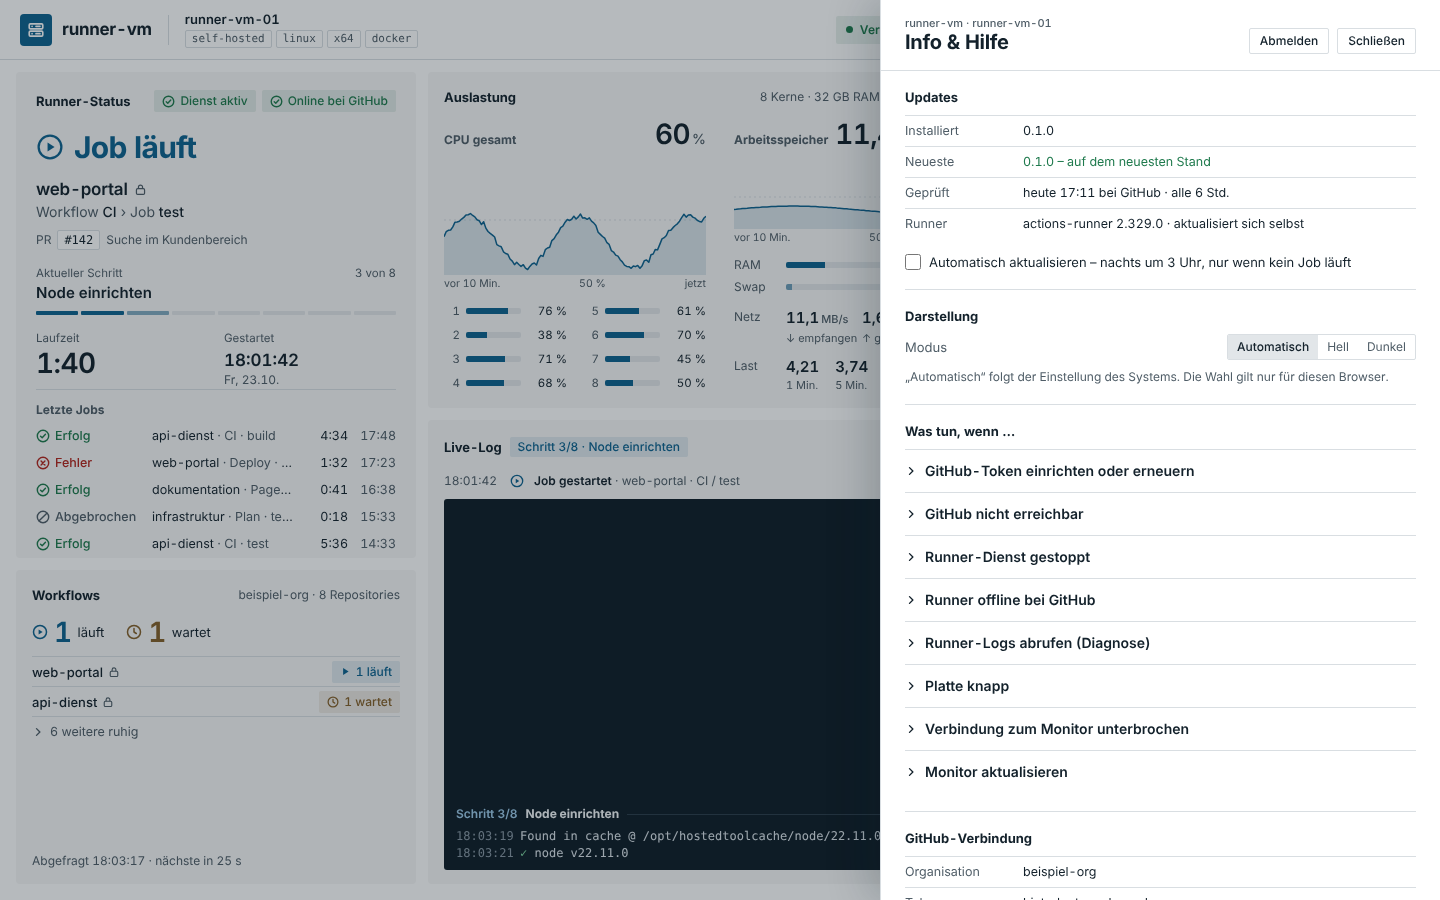
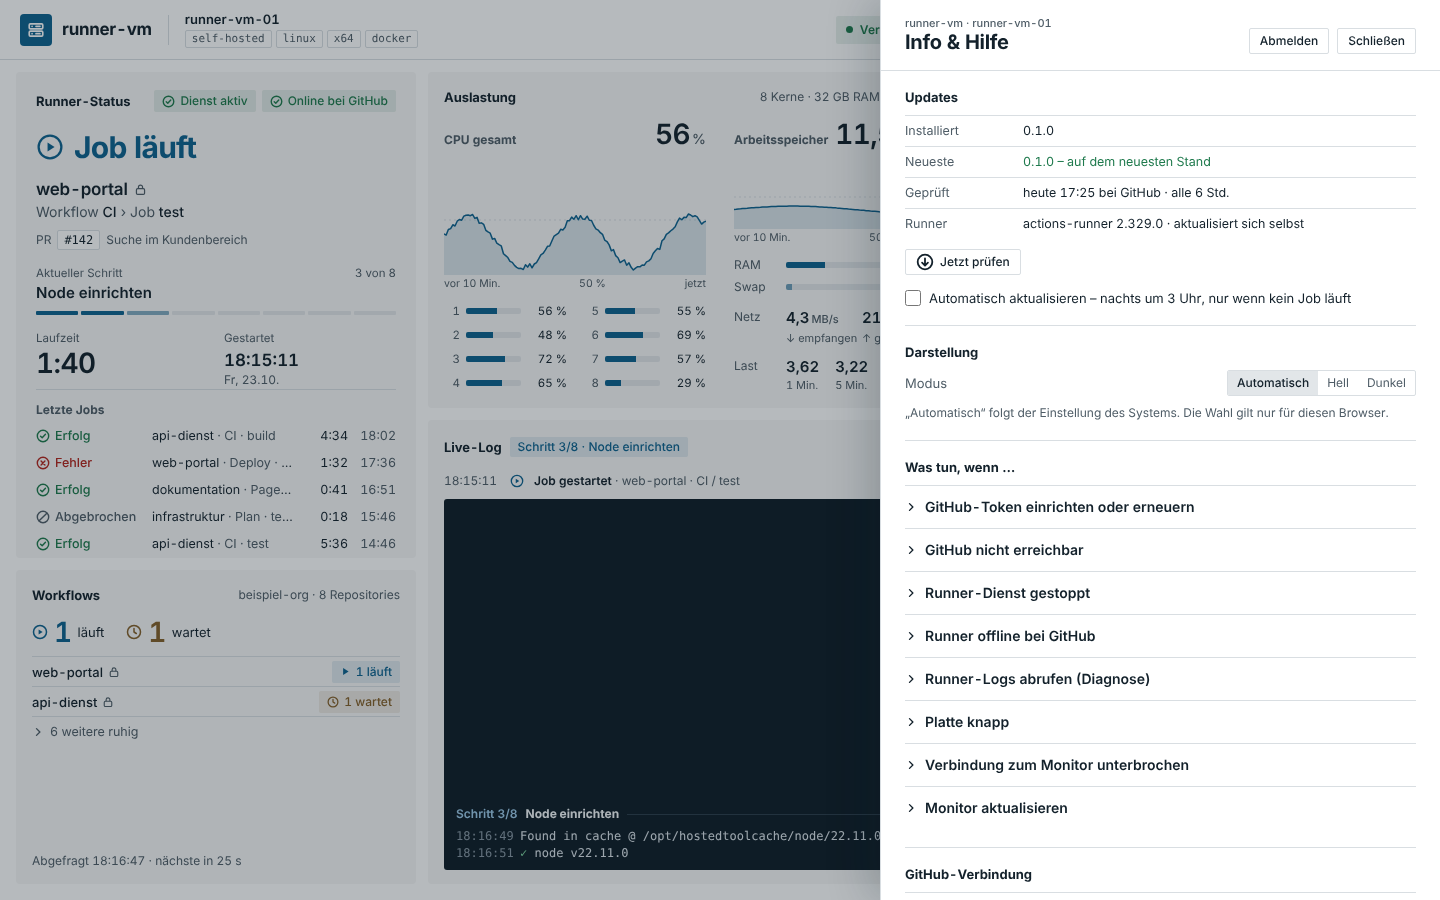
0.1.2: Knopf „Jetzt prüfen“ in Info › Updates
Der Webserver legt den Auftrag auftraege/release-pruefen ab, der root-Sammler fragt GitHub dann
sofort nach dem neuesten Release (höchstens einmal je Minute, schont das Kontingent). Die
Oberfläche zeigt „Frage GitHub …“, danach das Ergebnis; ohne Antwort nach 45 s einen Hinweis
auf das Sammler-Protokoll. Tests für Route und Sammler, Doku, Release-Notiz, Bilder.

Claude-Session: https://claude.ai/code/session_01Dvhiq4HdS1jMhHCCuwreiQ

diff --git a/web/dashboard.js b/web/dashboard.js
@@ -16,7 +16,7 @@
     status: null, system: null, prozesse: [], platten: [], workflows: null, update: null,
     cpuH: [], ramH: [], netzH: [], ereignisse: [], zeilenN: 0, puffer: [],
     verbindung: 'verbindet', letzteDaten: 0,
-    umbruch: true, angehalten: false, hochgescrollt: false, wfOffen: false, info: null, kerneN: 0,
+    umbruch: true, angehalten: false, hochgescrollt: false, pruefung: null, wfOffen: false, info: null, kerneN: 0,
   };
 
   /* ------------------------------------------------------------ ANSI → Segmente */
@@ -89,7 +89,10 @@
       case 'prozesse': S.prozesse = d; renderProzesse(); break;
       case 'platten': S.platten = d; renderPlatten(); renderKopf(); break;
       case 'workflows': S.workflows = d; renderWorkflows(); renderKopf(); break;
-      case 'update': S.update = d; renderKopf(); if (S.info) renderInfo(); break;
+      case 'update':
+        S.update = d;
+        if (S.pruefung && S.pruefung.zustand === 'laeuft' && d.neueste && ms(d.neueste.geprueft) >= S.pruefung.start - 1000) S.pruefung = { zustand: 'fertig', bis: Date.now() + 8000 };
+        renderKopf(); if (S.info) renderInfo(); break;
       case 'log':
         if (d.neu) { S.ereignisse = []; $('term-innen').replaceChildren(); S.zeilenN = 0; S.puffer = []; }
         if (d.ereignisse && d.ereignisse.length) { S.ereignisse.push(...d.ereignisse); S.ereignisse = S.ereignisse.slice(-20); renderEreignisse(); }
@@ -479,6 +482,23 @@
     ];
   }
 
+  /* „Jetzt prüfen“: fragt GitHub sofort nach einer neuen Version (über den root-Sammler, höchstens
+     einmal je Minute). Zustand in S.pruefung: laeuft → fertig/frisch/keine-antwort, verschwindet nach einigen Sekunden. */
+  function pruefKnopf(u, us, neu) {
+    const p = S.pruefung, jetzt = Date.now();
+    if (p && p.bis && jetzt > p.bis) S.pruefung = null;
+    if (p && p.zustand === 'laeuft' && jetzt - p.start > 45000) S.pruefung = { zustand: 'keine-antwort', bis: jetzt + 30000 };
+    const q = S.pruefung;
+    const text = !q ? '' : q.zustand === 'laeuft' ? 'Frage GitHub nach neuen Versionen …'
+      : q.zustand === 'frisch' ? 'Gerade erst geprüft – Stand siehe oben.'
+      : q.zustand === 'keine-antwort' ? 'Keine Antwort vom Sammler. Auf der VM prüfen: journalctl -u runner-monitor-sammler -n 30'
+      : u.neueste && u.neueste.fehler ? `GitHub nicht erreichbar: ${esc(u.neueste.fehler)}`
+      : neu ? `Version ${esc(u.neueste.version)} ist verfügbar.` : 'Auf dem neuesten Stand.';
+    const cls = !q ? '' : q.zustand === 'keine-antwort' || (q.zustand === 'fertig' && u.neueste && u.neueste.fehler) ? 'fehler' : q.zustand === 'fertig' && !neu ? 'ok' : '';
+    const aus = (q && q.zustand === 'laeuft') || us.zustand === 'laeuft';
+    return `<div class="upd-pruefen"><button type="button" class="knopf" data-aktion="update-pruefen"${aus ? ' disabled' : ''}>${q && q.zustand === 'laeuft' ? IC.dreh() : IC.update()}Jetzt prüfen</button>${text ? `<span class="info-notiz ${cls}" role="status">${text}</span>` : ''}</div>`;
+  }
+
   function oeffneInfo(id) {
     S.info = id || 'alle';
     const ebene = $('info-ebene');
@@ -513,6 +533,7 @@
       ['Geprüft', u.neueste && u.neueste.geprueft ? `${tm(u.neueste.geprueft) === tm(jetzt) ? 'heute' : tm(u.neueste.geprueft)} ${hm(u.neueste.geprueft)} bei GitHub · alle 6 Std.` : '–'],
       ['Runner', `${st.version ? 'actions-runner ' + esc(st.version) : '–'} · aktualisiert sich selbst`],
     ]);
+    upd += pruefKnopf(u, us, neu);
     if (neu && u.neueste.notizen && u.neueste.notizen.length) upd += `<div class="upd-neu"><div class="upd-neu-titel">Neu in ${esc(u.neueste.version)}</div><ul>${u.neueste.notizen.map(n => `<li>${esc(n)}</li>`).join('')}</ul><a href="${esc(u.neueste.url || `https://github.com/${REPO}/releases`)}" rel="noopener" target="_blank">Alle Änderungen auf GitHub ↗</a></div>`;
     if (us.zustand === 'laeuft' || us.zustand === 'fehler') {
       const nr = us.schritt || 1;
@@ -614,6 +635,14 @@
     else if (a === 'thema') { RM.setzeThema(b.dataset.thema); renderModus(); renderInfo(); }
     else if (a === 'wf-offen') { S.wfOffen = !S.wfOffen; $('workflows').dataset.letzte = ''; renderWorkflows(); }
     else if (a === 'abmelden') { if (!DEMO) await RM.sende('/api/abmelden'); location.href = '/anmelden'; }
+    else if (a === 'update-pruefen') {
+      const g = S.update && S.update.neueste && S.update.neueste.geprueft;
+      if (g && Date.now() - ms(g) < 60000) { S.pruefung = { zustand: 'frisch', bis: Date.now() + 5000 }; renderInfo(); return; }
+      S.pruefung = { zustand: 'laeuft', start: Date.now() }; renderInfo();
+      if (DEMO) { window.RM_DEMO.pruefen(); return; }
+      const r = await RM.sende('/api/update/pruefen');
+      if (!r.ok) { S.pruefung = { zustand: 'keine-antwort', bis: Date.now() + 30000 }; renderInfo(); }
+    }
     else if (a === 'update-starten') {
       b.disabled = true;
       if (DEMO) { window.RM_DEMO.updateStarten(); return; }

diff --git a/entwickler-dashboard/daten.js b/entwickler-dashboard/daten.js
@@ -3,9 +3,9 @@
 window.DATEN = {
   projekt: 'Runner-Monitor',
   repo: 'https://github.com/Bamberger-IT-Services/Self-Hosted-Github-Runner-Monitor',
-  version: '0.1.1',
-  versionStatus: 'Release v0.1.1 veröffentlicht (23.10.2026); auf der Runner-VM läuft 0.1.0 im Test',
-  stand: '23.10.2026 18:04',
+  version: '0.1.2',
+  versionStatus: 'Release v0.1.2 veröffentlicht (23.10.2026); Update-Test auf der Runner-VM läuft',
+  stand: '23.10.2026 18:16',
   naechsteSchritte: [
     'Auf der VM das Update auf 0.1.1 per Knopf testen, danach Rückweg (A-03)',
     'Abnahme auf der Runner-VM weiterführen (A-03): Live-Log mit echtem Job, Update und Rückweg',
@@ -33,6 +33,7 @@ window.DATEN = {
     { id: 'A-17', titel: 'Klären: Projektanweisung sagt „Als Docker sollte es dennoch funktionieren“ – widerspricht E-02/ADR-0002 (kein Docker). Optionaler Container (privilegiert, --pid=host, Journal- und Runner-Mounts) zusätzlich zum systemd-Dienst?', status: 'erledigt', prio: 'mittel', bereich: 'Entscheidung', wer: 'Tobias', notiz: 'E-12: kein Docker, auch nicht zusätzlich' },
     { id: 'A-18', titel: 'Info-Blatt baute sich jede Sekunde neu auf; Live-Log ließ sich nicht hochscrollen; einrichten.sh token vergaß die Organisation', status: 'erledigt', prio: 'hoch', bereich: 'Code', notiz: 'Version 0.1.1' },
     { id: 'A-20', titel: 'Netzwerkauslastung in der Karte Auslastung (empfangen, gesendet, Spitze 10 Min.)', status: 'erledigt', prio: 'mittel', bereich: 'Code', notiz: 'Wunsch Tobias, Version 0.1.1' },
+    { id: 'A-21', titel: 'Knopf „Jetzt prüfen“ in Info › Updates (Release sofort abfragen)', status: 'erledigt', prio: 'mittel', bereich: 'Code', notiz: 'Wunsch Tobias, Version 0.1.2' },
     { id: 'A-19', titel: 'Public-Repo: Anweisung 01 verweist zur Runner-Einrichtung auf dieses Repo, vorlagen/runner-einrichten.sh entfällt (Entscheidung „alles hierher verschieben“)', status: 'erledigt', prio: 'mittel', bereich: 'Public', wer: 'Claude', notiz: 'Public PR #15' },
   ],
 
@@ -60,6 +61,7 @@ window.DATEN = {
   ],
 
   verlauf: [
+    { datum: '23.10.2026 18:16', text: '0.1.2: Knopf „Jetzt prüfen“ in Info › Updates (Auftrag release-pruefen an den Sammler, höchstens einmal je Minute). Release v0.1.1 veröffentlicht (Workflow grün, Prüfsumme geprüft).' },
     { datum: '23.10.2026 18:04', text: 'Release v0.1.1 (OK Tobias): CHANGELOG, Release-Notiz, Doku-Stand, Bildschirmfotos neu. Public-Repo: Anweisung 01 verweist zur Runner-Einrichtung hierher (PR #15).' },
     { datum: '23.10.2026 17:56', text: 'Netzwerkauslastung ergänzt (Zeile „Netz“ in der Auslastung, /proc/net/dev ohne virtuelle Schnittstellen). PR #4 und Dependabot #2/#3 gemergt.' },
     { datum: '23.10.2026 17:49', text: '0.1.1: Info-Blatt bleibt ruhig stehen, Live-Log lässt sich hochscrollen, Token-Befehl im Info-Menü, einrichten.sh token fragt die Organisation. Entscheidungen E-11 (keine Lizenz) und E-12 (kein Docker) nachgetragen.' },

diff --git a/web/stil.css b/web/stil.css
@@ -326,6 +326,9 @@ body.dashboard { overflow: hidden; }
 .upd-schritte li.aktiv { font-weight: 600; }
 .upd-zusatz { color: var(--ink-muted); font-size: 12px; font-weight: 400; }
 .upd-dreh { animation: dreh 1s linear infinite; transform-origin: 50% 50%; }
+.upd-pruefen { display: flex; align-items: center; gap: 12px; margin: 10px 0 0; flex-wrap: wrap; }
+.upd-pruefen .info-notiz { margin: 0; }
+.upd-pruefen .knopf:disabled { opacity: .6; cursor: default; }
 .upd-auto { display: flex; align-items: center; gap: 8px; margin-top: 14px; font-size: 13px; }
 .upd-auto input, .merken input { width: 16px; height: 16px; margin: 0; accent-color: var(--brand); }
 .knopf-reihe { display: flex; gap: 8px; margin-top: 12px; }

diff --git a/web/demo.js b/web/demo.js
@@ -155,5 +155,5 @@ window.RM_DEMO = (() => {
     }, 1000);
   }
 
-  return { start, updateStarten: () => { upd = 'laeuft'; updSchritt = 0; api.empfange('update', update()); } };
+  return { start, updateStarten: () => { upd = 'laeuft'; updSchritt = 0; api.empfange('update', update()); }, pruefen: () => setTimeout(() => { const d = update(); d.neueste = { ...d.neueste, geprueft: jetzt() }; api.empfange('update', d); }, 1500) };
 })();

diff --git a/runner_monitor/sammler.py b/runner_monitor/sammler.py
@@ -29,6 +29,7 @@ LOG = logging.getLogger("runner_monitor.sammler")
 TAKT_DOCKER = 2
 TAKT_GITHUB = 30
 TAKT_RELEASE = 6 * 3600
+MANUELL_MIN_ABSTAND = 60  # „Jetzt prüfen“ schont das GitHub-Kontingent
 
 
 def schreibe_oeffentlich(pfad: Path, daten: object) -> None:
@@ -95,6 +96,7 @@ class Sammler:
         self.naechste_github = 0.0
         self.naechste_release = 0.0
         self.letztes_auto_update = ""
+        self.letzte_manuelle_pruefung = 0.0
 
     def token(self) -> str:
         try:
@@ -110,6 +112,7 @@ class Sammler:
         return einst.get("org") or self.k.org
 
     def auftraege(self) -> None:
+        self.auftrag_release_pruefen()
         datei = self.k.auftraege_verz / "github-token"
         if not datei.is_file():
             return
@@ -129,6 +132,19 @@ class Sammler:
         os.replace(tmp, self.k.token_datei)
         LOG.info("Neues GitHub-Token übernommen")
         self.naechste_github = 0
+
+    def auftrag_release_pruefen(self, jetzt: float | None = None) -> None:
+        """„Jetzt prüfen“ aus Info › Updates: nächste Release-Abfrage sofort, höchstens einmal je Minute."""
+        datei = self.k.auftraege_verz / "release-pruefen"
+        if not datei.is_file():
+            return
+        datei.unlink(missing_ok=True)
+        jetzt = time.time() if jetzt is None else jetzt
+        if jetzt - self.letzte_manuelle_pruefung < MANUELL_MIN_ABSTAND:
+            return  # zu kurz hintereinander – die Oberfläche zeigt dann den letzten Stand
+        self.letzte_manuelle_pruefung = jetzt
+        self.naechste_release = 0.0
+        LOG.info("Update-Prüfung von Hand angestoßen")
 
     def github(self) -> None:
         reg = runner.lies_registrierung(self.k.runner_verz)

diff --git a/tests/test_runner_github.py b/tests/test_runner_github.py
@@ -55,6 +55,29 @@ class SeitenTest(unittest.TestCase):
             self.assertEqual(runner.lies_registrierung(Path(verz) / "fehlt"), {})
 
 
+class ReleasePruefenTest(unittest.TestCase):
+    def test_auftrag_holt_abfrage_vor_und_bremst(self):
+        import tempfile
+        from pathlib import Path
+        from runner_monitor import konfig
+        with tempfile.TemporaryDirectory() as verz:
+            d = Path(verz)
+            k = konfig.lade(datei=d / "fehlt.env", umgebung={"MONITOR_DATEN_VERZ": str(d / "daten"), "MONITOR_LAUF_VERZ": str(d / "lauf")})
+            k.auftraege_verz.mkdir(parents=True)
+            s = sammler.Sammler(k)
+            s.naechste_release = 10_000.0
+            (k.auftraege_verz / "release-pruefen").write_text("{}")
+            s.auftrag_release_pruefen(jetzt=1000.0)
+            self.assertEqual(s.naechste_release, 0.0)
+            self.assertFalse((k.auftraege_verz / "release-pruefen").exists())
+            # zweiter Klick innerhalb einer Minute: Auftrag weg, keine neue Abfrage
+            s.naechste_release = 10_000.0
+            (k.auftraege_verz / "release-pruefen").write_text("{}")
+            s.auftrag_release_pruefen(jetzt=1030.0)
+            self.assertEqual(s.naechste_release, 10_000.0)
+            self.assertFalse((k.auftraege_verz / "release-pruefen").exists())
+
+
 class GitHubTest(unittest.TestCase):
     def test_zaehlen(self):
         runs = [{"status": "in_progress"}, {"status": "queued"}, {"status": "waiting"}, {"status": "completed"}]

diff --git a/tests/test_server.py b/tests/test_server.py
@@ -110,6 +110,10 @@ class ServerTest(unittest.TestCase):
         r, _ = self.anfrage("POST", "/api/update/starten")
         self.assertEqual(r.status, 202)
         self.assertEqual(json.loads((self.k.auftraege_verz / "update").read_text())["version"], "99.0.0")
+        # „Jetzt prüfen“ legt nur einen Auftrag für den Sammler ab
+        r, _ = self.anfrage("POST", "/api/update/pruefen")
+        self.assertEqual(r.status, 202)
+        self.assertTrue((self.k.auftraege_verz / "release-pruefen").is_file())
         r, _ = self.anfrage("POST", "/api/abmelden")
         r, _ = self.anfrage("GET", "/api/sitzung")
         self.assertEqual(r.status, 401)

diff --git a/runner_monitor/server.py b/runner_monitor/server.py
@@ -290,6 +290,10 @@ class Handler(BaseHTTPRequestHandler):
             return
         if pfad == "/api/update/starten":
             self._update_starten()
+        elif pfad == "/api/update/pruefen":
+            # Nur ein Auftrag an den root-Sammler; der fragt GitHub ab (höchstens einmal je Minute).
+            zugang._schreibe(app.k.auftraege_verz / "release-pruefen", {"zeit": time.time()})  # noqa: SLF001
+            self._json(HTTPStatus.ACCEPTED, {"ok": True})
         elif pfad == "/api/update/auto":
             einst = lies_json(app.k.einstellungen_datei, {}) or {}
             einst["autoUpdate"] = bool(daten.get("an"))

diff --git a/runner_monitor/__init__.py b/runner_monitor/__init__.py
@@ -8,4 +8,4 @@ Nur Python-Standardbibliothek (ADR-0001). Zwei Dienste:
   Schreibt nur JSON-Dateien nach ``/run/runner-monitor/``.
 """
 
-VERSION = "0.1.1"
+VERSION = "0.1.2"

diff --git a/docs/EINRICHTUNG.md b/docs/EINRICHTUNG.md
@@ -1,6 +1,6 @@
 # Erstinstallation auf der VM
 
-**Stand: 23.10.2026 · Version 0.1.1**
+**Stand: 23.10.2026 · Version 0.1.2**
 
 Dauer: etwa 5 Minuten. Alle Befehle auf der Runner-VM (per SSH), Platzhalter wie
 `beispiel-org` durch die eigenen Werte ersetzen.
@@ -15,7 +15,7 @@ Dauer: etwa 5 Minuten. Alle Befehle auf der Runner-VM (per SSH), Platzhalter wie
 ## 1. Herunterladen und entpacken
 
 ```bash
-V=0.1.1
+V=0.1.2
 curl -fsSLO https://github.com/Bamberger-IT-Services/Self-Hosted-Github-Runner-Monitor/releases/download/v$V/runner-monitor-$V.tar.gz
 curl -fsSLO https://github.com/Bamberger-IT-Services/Self-Hosted-Github-Runner-Monitor/releases/download/v$V/runner-monitor-$V.tar.gz.sha256
 sha256sum -c runner-monitor-$V.tar.gz.sha256     # muss „OK“ melden
@@ -33,7 +33,7 @@ Das Skript erledigt in sechs Schritten:
 | Schritt | Was passiert |
 |---|---|
 | 1 Benutzer und Ordner | Systembenutzer `runner-monitor` (ohne Anmeldung, darf das Journal lesen), `/var/lib/runner-monitor`, `/etc/runner-monitor/konfig.env` |
-| 2 Programm | Kopie nach `/opt/runner-monitor/versionen/0.1.1`, Verweis `aktuell`. Eine alte Terminalansicht (ttyd, `monitor-einrichten.sh`) wird erkannt und ersetzt; ihr Token wird übernommen. |
+| 2 Programm | Kopie nach `/opt/runner-monitor/versionen/0.1.2`, Verweis `aktuell`. Eine alte Terminalansicht (ttyd, `monitor-einrichten.sh`) wird erkannt und ersetzt; ihr Token wird übernommen. |
 | 3 Runner | Sucht `/opt/actions-runner/.runner`. Fehlt der Runner, fragt das Skript, ob es ihn einrichten soll (siehe unten). |
 | 4 Firewall | `ufw`: SSH bleibt offen, Port 8090 nur aus dem eigenen Netz (z. B. `192.0.2.0/24`). Ist ufw aus, fragt das Skript, ob es ihn einschalten soll. |
 | 5 Dienste | `runner-monitor`, `runner-monitor-sammler`, `runner-monitor-update.path` – starten und beim Booten aktiv |
@@ -103,7 +103,7 @@ Organisation › Settings › Personal access tokens › **Pending requests**.
 ```bash
 sudo ./einrichten.sh status                       # Dienste und Version
 journalctl -u runner-monitor -u runner-monitor-sammler -n 30
-curl -s http://127.0.0.1:8090/api/health          # {"ok": true, "version": "0.1.1"}
+curl -s http://127.0.0.1:8090/api/health          # {"ok": true, "version": "0.1.2"}
 ```
 
 ## Einstellungen

diff --git a/README.md b/README.md
@@ -1,6 +1,6 @@
 # Runner-Monitor
 
-**Stand: 23.10.2026 · Version 0.1.1** (erstes Release, Abnahme auf der VM läuft)
+**Stand: 23.10.2026 · Version 0.1.2** (erstes Release, Abnahme auf der VM läuft)
 
 Live-Dashboard für einen **selbst gehosteten GitHub-Actions-Runner** auf einer Linux-VM.
 Ein Blick zeigt, ob der Runner bereit ist, welcher Job gerade läuft, wie ausgelastet die VM
@@ -31,8 +31,8 @@ schon laufen – oder das Skript richtet ihn mit ein.
 
 ```bash
 # 1. Neueste Version holen und entpacken (Release-Seite: Assets › runner-monitor-X.Y.Z.tar.gz)
-curl -fsSLO https://github.com/Bamberger-IT-Services/Self-Hosted-Github-Runner-Monitor/releases/latest/download/runner-monitor-0.1.1.tar.gz
-tar xzf runner-monitor-0.1.1.tar.gz && cd runner-monitor-0.1.1
+curl -fsSLO https://github.com/Bamberger-IT-Services/Self-Hosted-Github-Runner-Monitor/releases/latest/download/runner-monitor-0.1.2.tar.gz
+tar xzf runner-monitor-0.1.2.tar.gz && cd runner-monitor-0.1.2
 
 # 2. Einrichtungsskript: Dienste, Firewall (Port 8090 nur aus dem LAN), Runner-Suche
 sudo ./einrichten.sh
@@ -79,7 +79,7 @@ Demo-Zustände lassen sich auch per Adresse wählen, z. B. `?demo&zustand=gestop
 
 | Version | Datum | Handbuch | Release-Notiz |
 |---|---|---|---|
-| 0.1 | 23.10.2026 (0.1.1) | [v0.1.1/docs/handbuch](https://github.com/Bamberger-IT-Services/Self-Hosted-Github-Runner-Monitor/tree/v0.1.1/docs/handbuch) | [v0.1.1](docs/releases/v0.1.1.md) |
+| 0.1 | 23.10.2026 (0.1.2) | [v0.1.2/docs/handbuch](https://github.com/Bamberger-IT-Services/Self-Hosted-Github-Runner-Monitor/tree/v0.1.2/docs/handbuch) | [v0.1.2](docs/releases/v0.1.2.md) |
 
 ## Nichtfunktionale Anforderungen
 

diff --git a/docs/handbuch/04-info-und-hilfe.md b/docs/handbuch/04-info-und-hilfe.md
@@ -1,6 +1,6 @@
 # 4 Info & Hilfe
 
-**Stand: 23.10.2026 · Version 0.1.1**
+**Stand: 23.10.2026 · Version 0.1.2**
 
 „Info“ oben rechts öffnet ein Blatt von rechts. Schließen mit „Schließen“, Escape oder einem
 Klick daneben.
@@ -12,7 +12,7 @@ aufgeklappte Anleitung bleiben.
 
 | Abschnitt | Inhalt |
 |---|---|
-| **Updates** | installierte und neueste Version, wann zuletzt geprüft, Neuerungen, Knopf „Jetzt aktualisieren“ mit Fortschritt, Schalter „Automatisch aktualisieren“ ([UPDATE.md](../UPDATE.md)) |
+| **Updates** | installierte und neueste Version, wann zuletzt geprüft, Knopf **„Jetzt prüfen“** (fragt GitHub sofort, höchstens einmal je Minute), Neuerungen, Knopf „Jetzt aktualisieren“ mit Fortschritt, Schalter „Automatisch aktualisieren“ ([UPDATE.md](../UPDATE.md)) |
 | **Darstellung** | Automatisch (folgt dem System), Hell, Dunkel – gilt für diesen Browser. Derselbe Umschalter sitzt als Knopf in der Kopfzeile. |
 | **Was tun, wenn …** | Schritt-für-Schritt-Anleitungen mit Befehlen zum Kopieren: Token, GitHub nicht erreichbar, Dienst gestoppt, offline, **Runner-Logs abrufen**, Platte knapp, Verbindung zum Monitor, Monitor aktualisieren |
 | **GitHub-Verbindung** | Organisation, Token-Zustand, Rechte, Ablaufdatum, letzte und nächste Abfrage, API-Kontingent, Ort der Token-Datei und der Befehl zum Ändern auf der VM: `sudo /opt/runner-monitor/aktuell/einrichten.sh token` (fragt Token und Organisation ab) |
